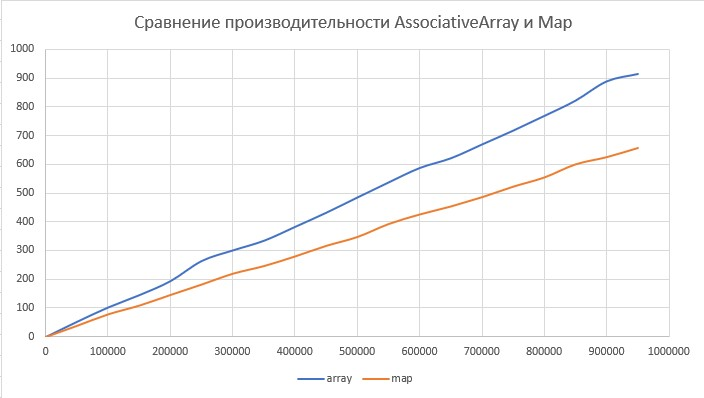
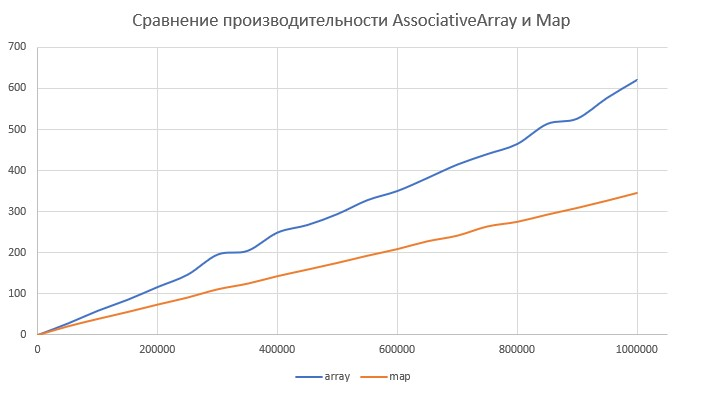
-Fixed the fifth algorithm -Changed the picture of the performance graph

diff --git a/Algorithms/Fifth/test.cpp b/Algorithms/Fifth/test.cpp
@@ -44,23 +44,28 @@ void generateInputFile(std::string name, int length) {
     os.close();
 }
 
-void readFileToArray(std::string name, Array* array) {
+int readFile(std::string name, int* buffer) {
     std::ifstream is(name);
-    if (!is.is_open()) return;
+    if (!is.is_open()) return 1;
     std::string line;
+    int i = 0;
     while (std::getline(is, line)) {
         std::pair<Key, Value> keyAndValue = keyAndValueFromString(line);
-        array->insert(keyAndValue.first, keyAndValue.second);
+        buffer[i++] = keyAndValue.first;
+        buffer[i++] = keyAndValue.second;
+    }
+    return 0;
+}
+
+void fillArray(int* buffer, int amountNode, Array* array) {
+    for (int i = 0; i < amountNode; ++i) {
+        array->insert(buffer[i * 2], buffer[i * 2 + 1]);
     }
 }
 
-void readFileToMap(std::string name, std::map<Key, Value>& map) {
-    std::ifstream is(name);
-    if (!is.is_open()) return;
-    std::string line;
-    while (std::getline(is, line)) {
-        std::pair<Key, Value> keyAndValue = keyAndValueFromString(line);
-        map[keyAndValue.first] = keyAndValue.second;
+void fillMap(int* buffer, int amountNode, std::map<Key, Value>& map) {
+    for (int i = 0; i < amountNode; ++i) {
+        map[buffer[i * 2]] = buffer[i * 2 + 1];
     }
 }
 
@@ -68,10 +73,14 @@ std::pair<double, double> testAssociativeArrayVSMap(int length) {
     srand(time(0));
     std::cout << "Capacity is " << length << std::endl;
     generateInputFile(INPUT_FILE_NAME, length);
+    int* buffer = new int[length * 2];
+    if (readFile(INPUT_FILE_NAME, buffer)) {
+        return std::make_pair(0, 0);
+    }
 
     auto *array = new Array();
     auto start = std::chrono::system_clock::now();
-    readFileToArray(INPUT_FILE_NAME, array);
+    fillArray(buffer, length, array);
     auto end = std::chrono::system_clock::now();
 
     std::chrono::duration<double, Ratio> readToArray = end - start;
@@ -79,7 +88,7 @@ std::pair<double, double> testAssociativeArrayVSMap(int length) {
 
     std::map<Key, Value> map;
     start = std::chrono::system_clock::now();
-    readFileToMap(INPUT_FILE_NAME, map);
+    fillMap(buffer, length, map);
     end = std::chrono::system_clock::now();
 
     std::chrono::duration<double, Ratio> readToMap = end - start;
